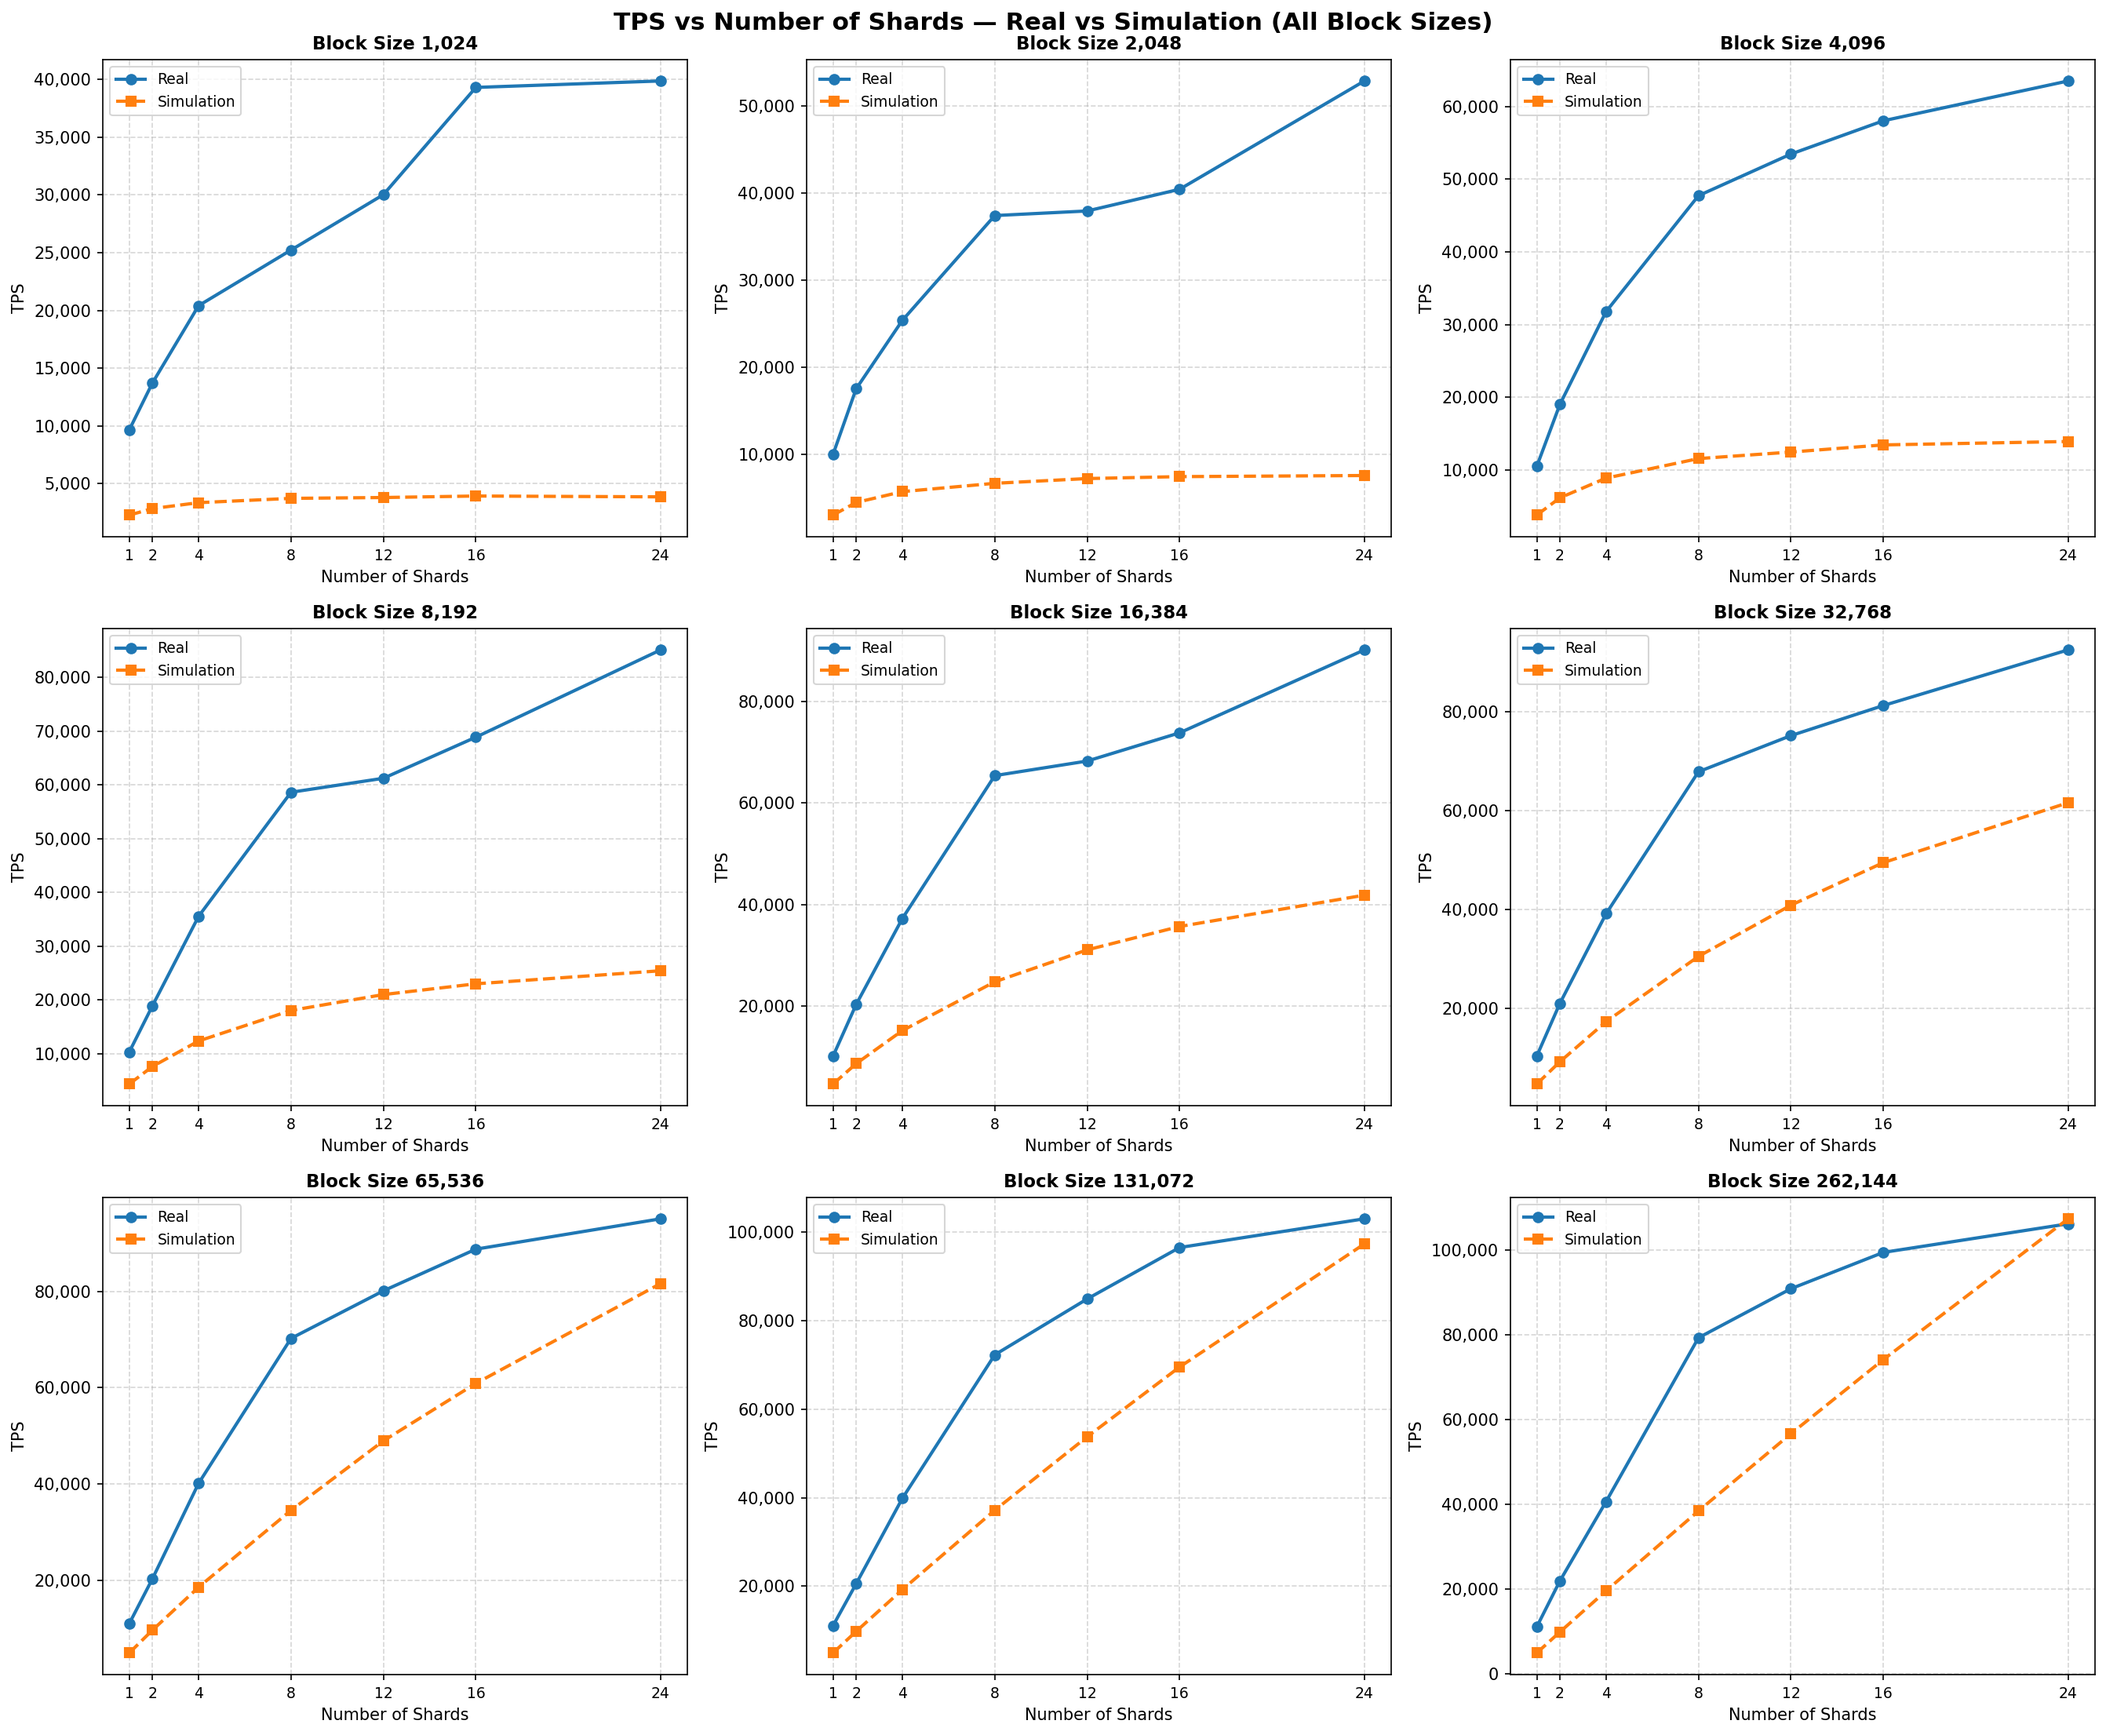
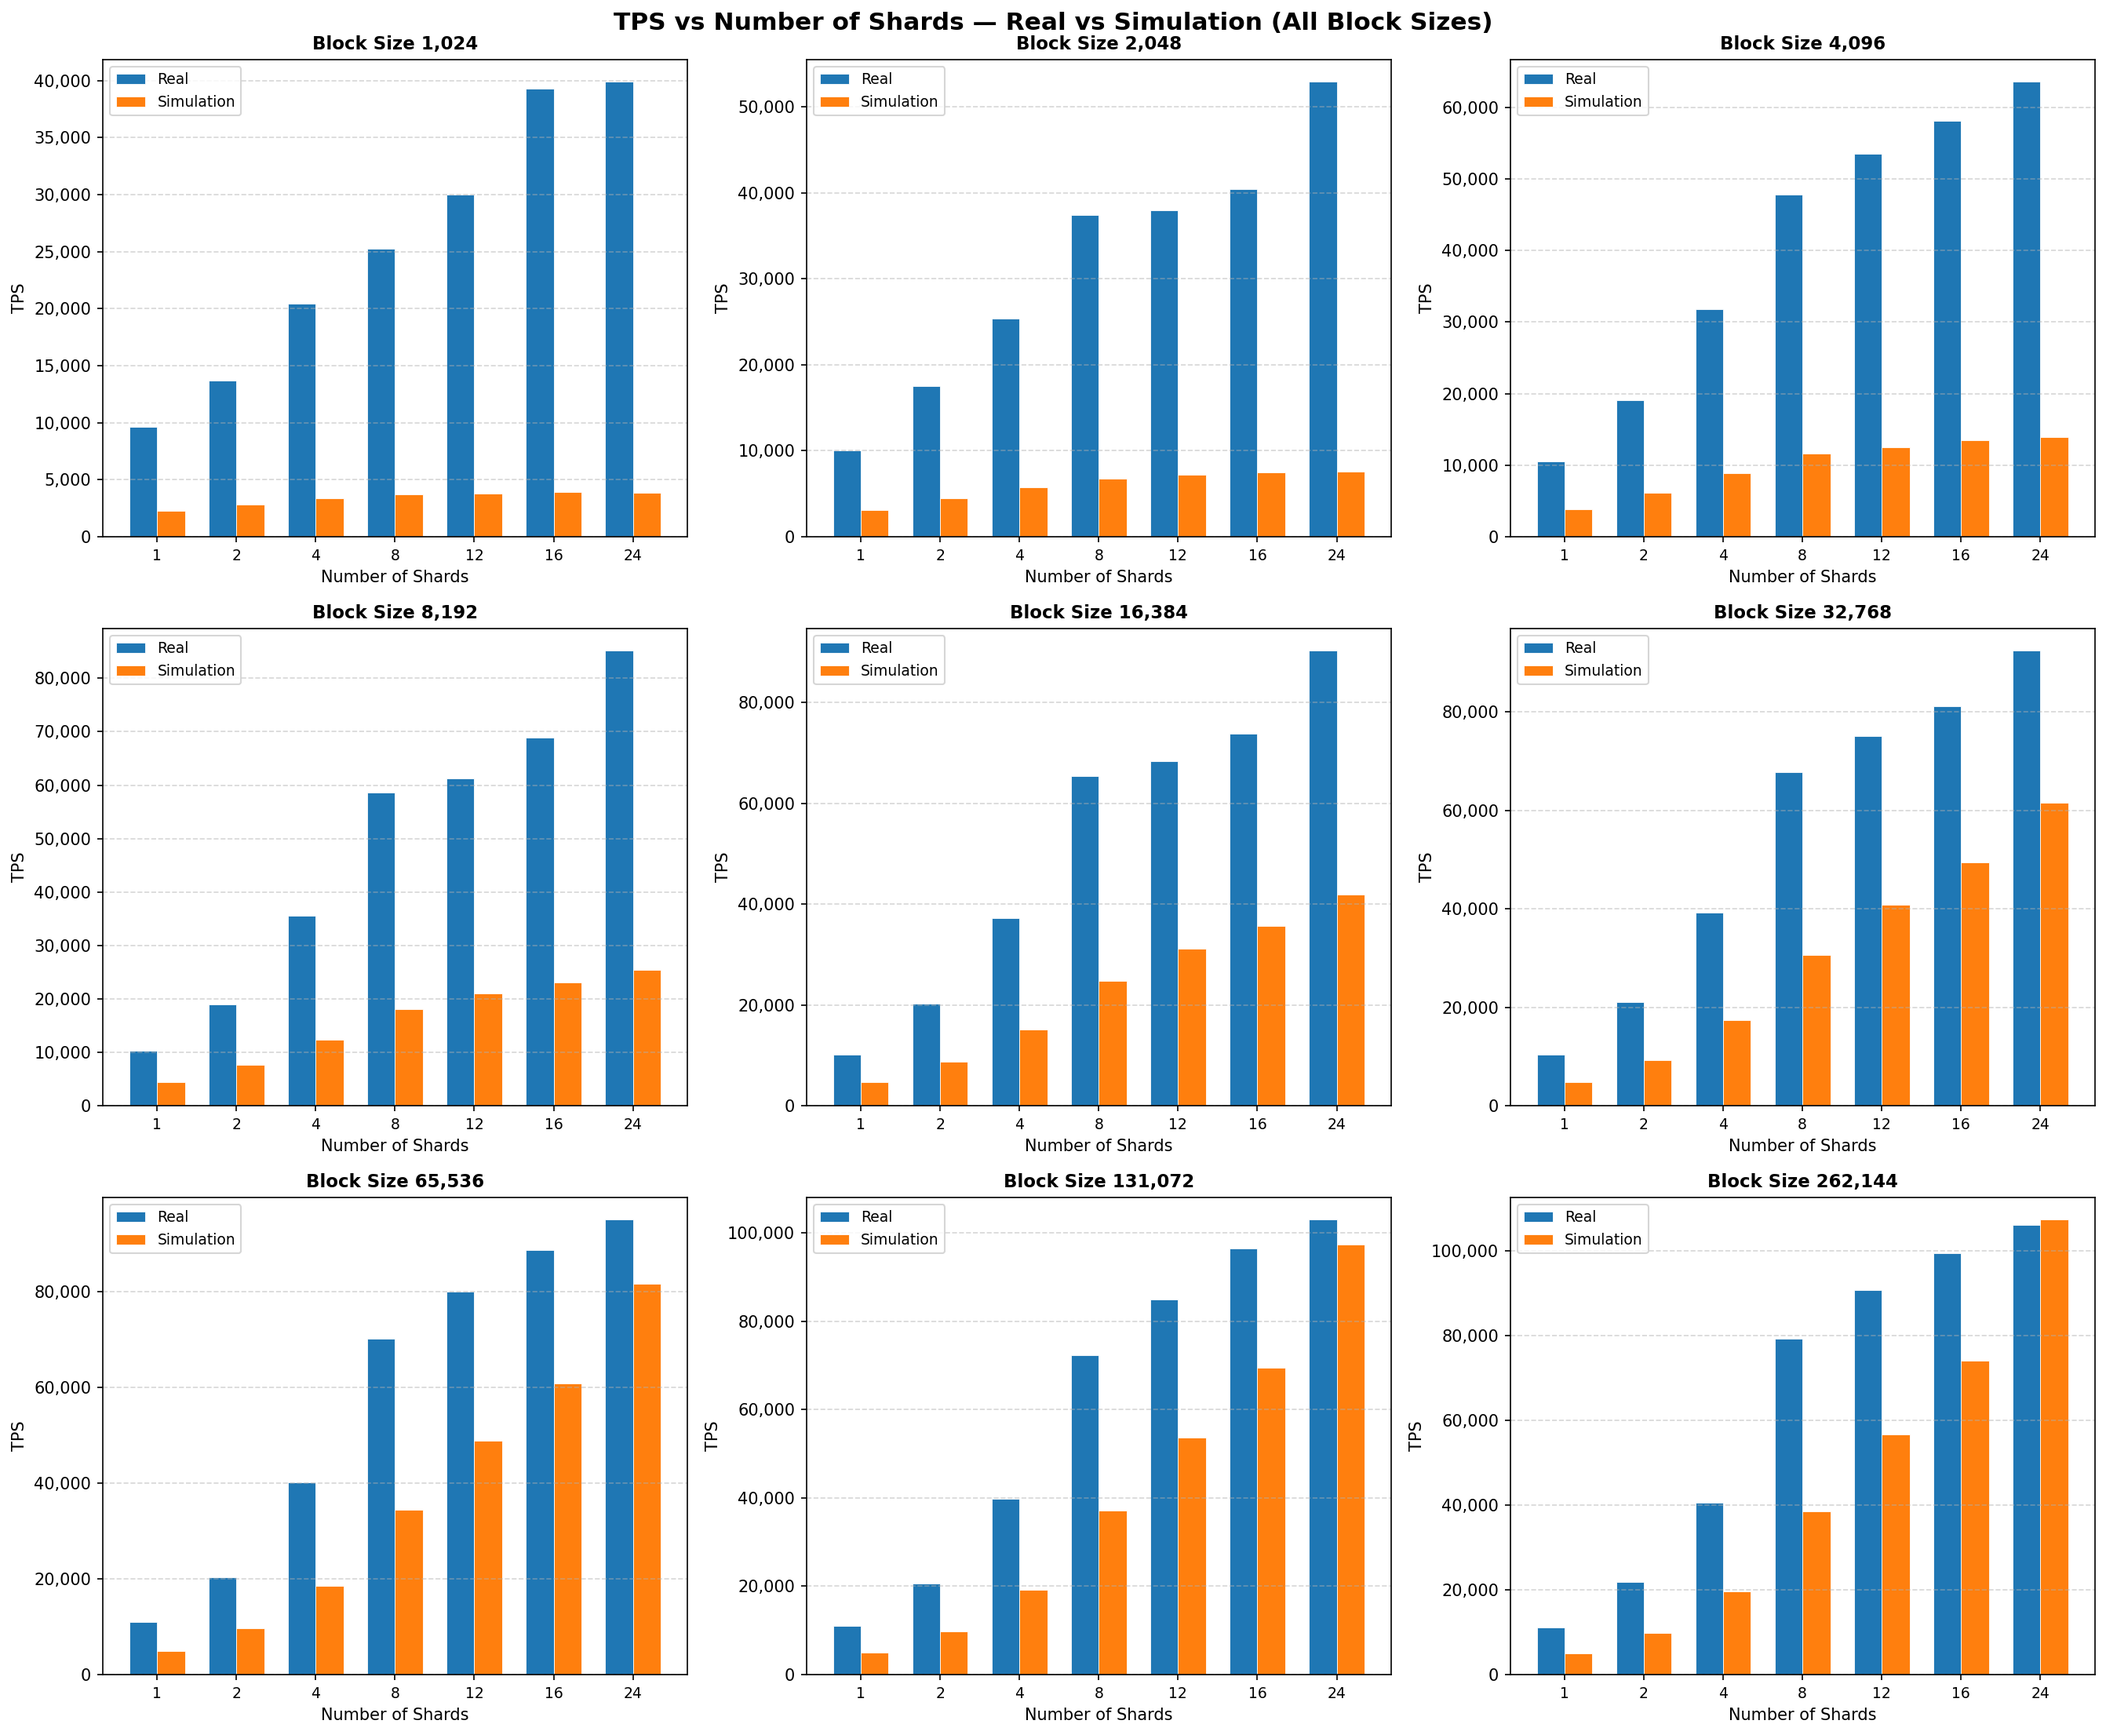
new results and new graphs

diff --git a/plot_results.py b/plot_results.py
@@ -27,31 +27,28 @@ nrows = (len(block_sizes) + ncols - 1) // ncols
 fig, axes = plt.subplots(nrows, ncols, figsize=(18, 5 * nrows), sharey=False)
 axes = axes.flatten()
 
-style = {
-    "Real":       {"color": "#1f77b4", "marker": "o", "linestyle": "-"},
-    "Simulation": {"color": "#ff7f0e", "marker": "s", "linestyle": "--"},
-}
+sources = ["Real", "Simulation"]
+colors  = {"Real": "#1f77b4", "Simulation": "#ff7f0e"}
+bar_width = 0.35
+x = np.arange(len(shard_values))
 
 for i, bs in enumerate(block_sizes):
     ax = axes[i]
-    for source in ["Real", "Simulation"]:
+    for j, source in enumerate(sources):
         subset = df[(df["block_size"] == bs) & (df["source"] == source)].sort_values("num_shards")
         if subset.empty:
             continue
-        s = style[source]
-        ax.plot(
-            subset["num_shards"], subset["tps"],
-            color=s["color"], marker=s["marker"], linestyle=s["linestyle"],
-            label=source, linewidth=2, markersize=6,
-        )
+        offset = (j - 0.5) * bar_width
+        ax.bar(x + offset, subset["tps"].values, width=bar_width,
+               color=colors[source], label=source, edgecolor="white", linewidth=0.4)
 
     ax.set_title(f"Block Size {bs:,}", fontsize=11, fontweight="bold")
     ax.set_xlabel("Number of Shards", fontsize=10)
     ax.set_ylabel("TPS", fontsize=10)
-    ax.set_xticks(shard_values)
+    ax.set_xticks(x)
     ax.set_xticklabels([str(s) for s in shard_values], fontsize=9)
-    ax.yaxis.set_major_formatter(ticker.FuncFormatter(lambda x, _: f"{x:,.0f}"))
-    ax.grid(True, linestyle="--", alpha=0.5)
+    ax.yaxis.set_major_formatter(ticker.FuncFormatter(lambda v, _: f"{v:,.0f}"))
+    ax.grid(True, axis="y", linestyle="--", alpha=0.5)
     ax.legend(fontsize=9)
 
 for j in range(i + 1, len(axes)):
